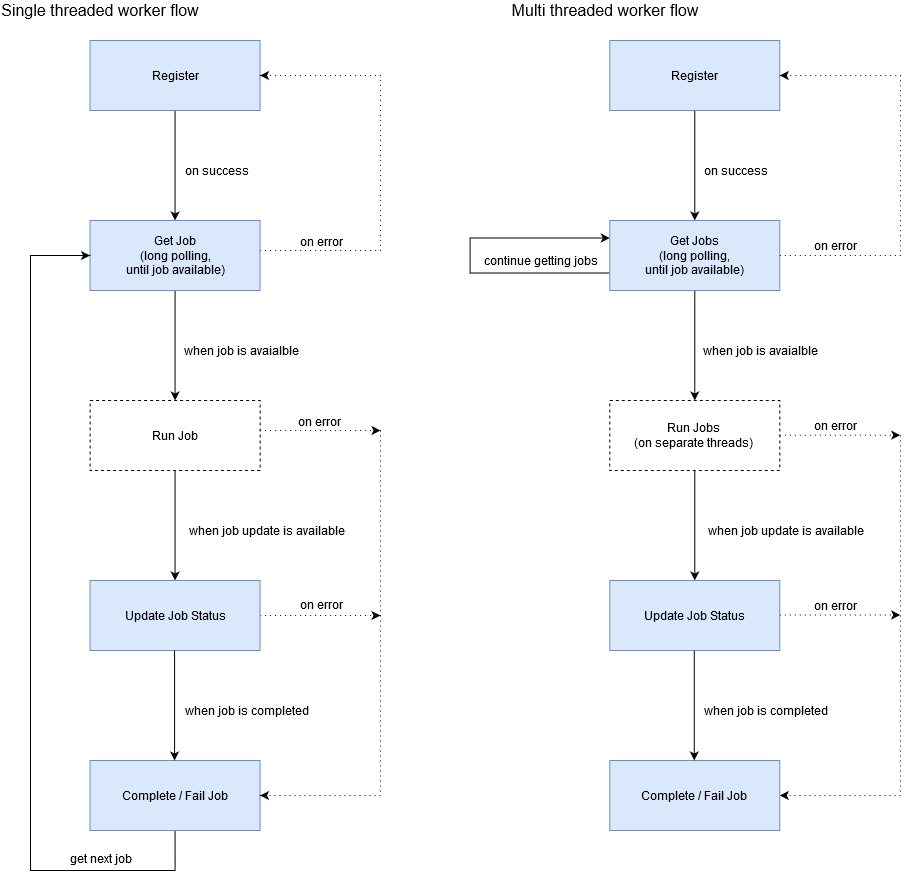
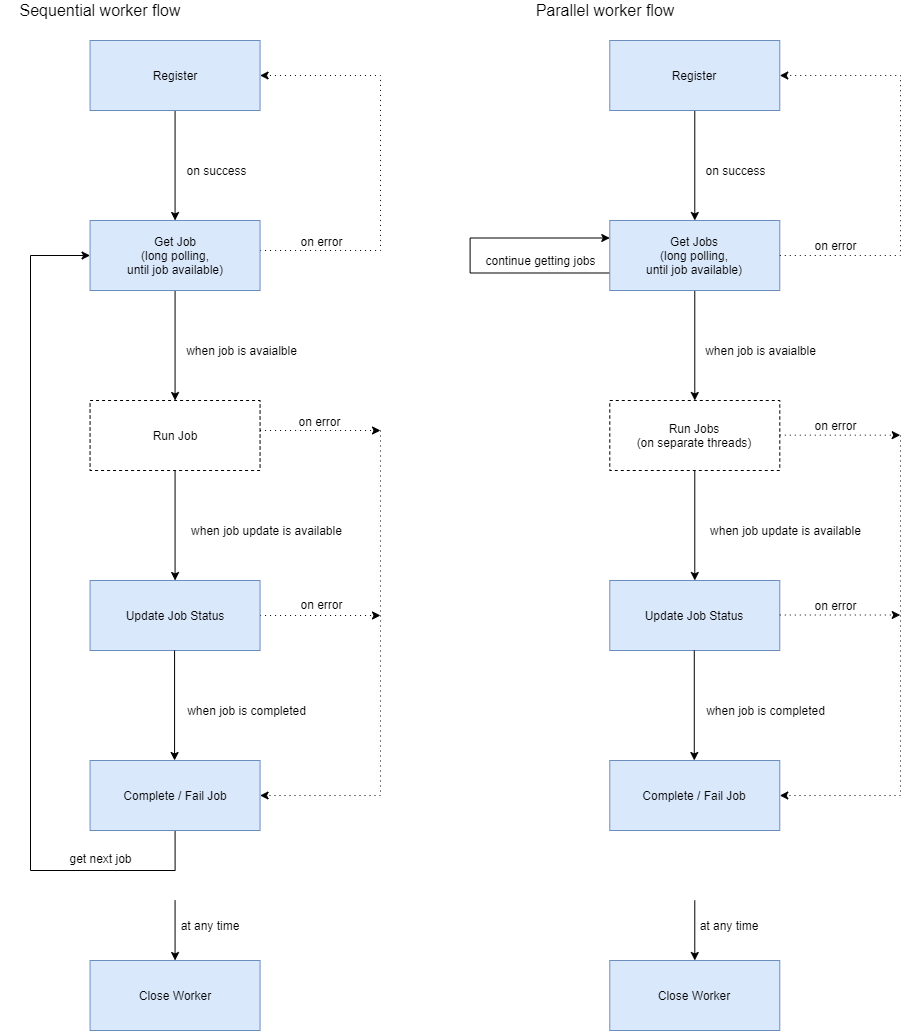
Small refactor

diff --git a/src/Workers/CSharpSequential/CSharpSequential/States/RegistrationState.cs b/src/Workers/CSharpSequential/CSharpSequential/States/RegistrationState.cs
@@ -1,0 +1,90 @@
+using System;
+using System.Collections.Generic;
+using System.Net;
+using System.Net.Http;
+using System.Text;
+using System.Threading.Tasks;
+using Newtonsoft.Json;
+using Newtonsoft.Json.Linq;
+
+namespace CSharpSequential.States
+{
+	public class RegistrationState : IState
+	{
+		private JobRunnerStateMachine _jobRunnerStateMachine;
+
+		public async Task Handle(JobRunnerStateMachine jobRunnerStateMachine)
+		{
+			Console.WriteLine("Registering worker");
+
+			_jobRunnerStateMachine = jobRunnerStateMachine;
+			try
+			{
+				var requestUri = $"{Program.UrlBase}{Consts.RegisterAddressSuffix}";
+				using (var client = new HttpClient())
+				using (var response = await client.PostAsync(requestUri, new StringContent(
+					JsonConvert.SerializeObject(new RegistrationModel()),
+					Encoding.UTF8,
+					"application/json")))
+				{
+					await HandleResponse(response);
+				}
+			}
+			catch (Exception e)
+			{
+				jobRunnerStateMachine.State = new FailedState(e.Message);
+			}
+		}
+
+		private async Task HandleResponse(HttpResponseMessage httpResponseMessage)
+		{
+			using (var content = httpResponseMessage.Content)
+			{
+				var result = await content.ReadAsStringAsync();
+				if (httpResponseMessage.StatusCode == HttpStatusCode.InternalServerError)
+				{
+					_jobRunnerStateMachine.State = new FailedState(result);
+					return;
+				}
+
+				if (Guid.TryParse(result.Replace("\"", ""), out var workerId))
+				{
+					_jobRunnerStateMachine.WorkerId = workerId;
+					_jobRunnerStateMachine.State = new GetJobsState();
+				}
+				else
+				{
+					_jobRunnerStateMachine.State = new FailedState(result);
+				}
+			}
+		}
+	}
+
+	public class RegistrationModel
+	{
+		public string Name => "Single threaded counter";
+		public string Description => "Single threaded example worker";
[1 lines of base64/hex data omitted]
+		public List<JobDescription> JobDescriptions => new List<JobDescription>
+		{
+			new JobDescription
+			{
+				Name = "Count",
+				Description = new List<string>
+				{
+					"Counts in one second intervals. Params:",
+					" - from [int]",
+					" - to [int]"
+				},
+				DefaultPayload = JObject.Parse("{\"from\":0,\"to\":5}")
+			}
+		};
+	}
+
+	public class JobDescription
+	{
+		public string Name { get; set; }
+		public List<string> Description { get; set; }
+		public JObject DefaultPayload { get; set; }
+	}
+}

diff --git a/src/Workers/CSharpSequential/CSharpSequential/JobRunnerStateMachine.cs b/src/Workers/CSharpSequential/CSharpSequential/JobRunnerStateMachine.cs
@@ -1,9 +1,9 @@
 using System;
 using System.Net.Http;
 using System.Threading.Tasks;
-using CSharpSingleThreaded.States;
+using CSharpSequential.States;
 
-namespace CSharpSingleThreaded
+namespace CSharpSequential
 {
 	public class JobRunnerStateMachine
 	{

diff --git a/src/Workers/CSharpSequential/CSharpSequential/States/RunJobState.cs b/src/Workers/CSharpSequential/CSharpSequential/States/RunJobState.cs
@@ -1,8 +1,8 @@
 using System;
 using System.Threading.Tasks;
-using CSharpSingleThreaded.JobRunners;
+using CSharpSequential.JobRunners;
 
-namespace CSharpSingleThreaded.States
+namespace CSharpSequential.States
 {
 	public class RunJobState : IState
 	{

diff --git a/src/Workers/CSharpSequential/CSharpSequential/States/GetJobsState.cs b/src/Workers/CSharpSequential/CSharpSequential/States/GetJobsState.cs
@@ -5,7 +5,7 @@ using System.Net.Http;
 using System.Threading.Tasks;
 using Newtonsoft.Json.Linq;
 
-namespace CSharpSingleThreaded.States
+namespace CSharpSequential.States
 {
 	public class GetJobsState : IState
 	{

diff --git a/src/Workers/CSharpSequential/CSharpSequential/JobRunners/JobRunnerBase.cs b/src/Workers/CSharpSequential/CSharpSequential/JobRunners/JobRunnerBase.cs
@@ -4,7 +4,7 @@ using System.Text;
 using System.Threading.Tasks;
 using Newtonsoft.Json;
 
-namespace CSharpSingleThreaded.JobRunners
+namespace CSharpSequential.JobRunners
 {
 	public class JobRunnerBase
 	{

diff --git a/src/Workers/CSharpSequential/CSharpSequential/JobRunners/CountJobRunner.cs b/src/Workers/CSharpSequential/CSharpSequential/JobRunners/CountJobRunner.cs
@@ -1,7 +1,7 @@
 using System;
 using System.Threading.Tasks;
 
-namespace CSharpSingleThreaded.JobRunners
+namespace CSharpSequential.JobRunners
 {
 	public class CountJobRunner : JobRunnerBase
 	{

diff --git a/src/Workers/CSharpSequential/CSharpSequential/States/FailedState.cs b/src/Workers/CSharpSequential/CSharpSequential/States/FailedState.cs
@@ -1,7 +1,7 @@
 using System;
 using System.Threading.Tasks;
 
-namespace CSharpSingleThreaded.States
+namespace CSharpSequential.States
 {
 	public class FailedState : IState
 	{

diff --git a/src/Workers/CSharpSequential/CSharpSequential/States/IState.cs b/src/Workers/CSharpSequential/CSharpSequential/States/IState.cs
@@ -1,6 +1,6 @@
 using System.Threading.Tasks;
 
-namespace CSharpSingleThreaded.States
+namespace CSharpSequential.States
 {
 	public interface IState
 	{

diff --git a/src/Workers/CSharpSequential/CSharpSequential/Job.cs b/src/Workers/CSharpSequential/CSharpSequential/Job.cs
@@ -1,7 +1,7 @@
 using System;
 using Newtonsoft.Json.Linq;
 
-namespace CSharpSingleThreaded
+namespace CSharpSequential
 {
 	public class Job
 	{

diff --git a/src/Workers/CSharpSequential/CSharpSequential/Program.cs b/src/Workers/CSharpSequential/CSharpSequential/Program.cs
@@ -1,7 +1,7 @@
 using System;
 using System.Threading.Tasks;
 
-namespace CSharpSingleThreaded
+namespace CSharpSequential
 {
 	class Program
 	{

diff --git a/src/Workers/CSharpSequential/CSharpSequential/Consts.cs b/src/Workers/CSharpSequential/CSharpSequential/Consts.cs
@@ -1,4 +1,4 @@
-namespace CSharpSingleThreaded
+namespace CSharpSequential
 {
 	public class Consts
 	{

diff --git a/README.MD b/README.MD
@@ -11,7 +11,7 @@ Remote control any device that is programmable and supports HTTP connections. PC
 	- are quick and easy to write
 	- can be written in any language that supports HTTP connections
 	- are minimalistic, they just connect to the server and get/update/complete jobs
-	- can be multi or single threaded doing all jobs at once or one at a time
+	- jobs can be run sequentially or in parallel, depending on worker capabilities
 
 # Architecture
 There is no direct connection between server and workers. Server pushes new jobs to the cloud and workers pull them from the cloud. Also no connection is made to the workers at any point. All worker communication is done with http requests which they themselves initiate. This means that as long as the worker has internet access no NAT or firewall will interfere with the communication.
@@ -19,7 +19,7 @@ There is no direct connection between server and workers. Server pushes new jobs
 ![](/docs/rcearch.png)
 
 # Worker Loop
-Workers are very simple by design, as the whole idea is to allow adding a remote control capability quickly and easily to any device. Below are loops for single and multi threaded workers. Blue boxes represent http requests.
+Workers are very simple by design, as the whole idea is to allow adding a remote control capability quickly and easily to any device. Below are loops for sequential and parallel flows. Blue boxes represent http requests.
 
 ![](/docs/rceworkerflow.png)
 
